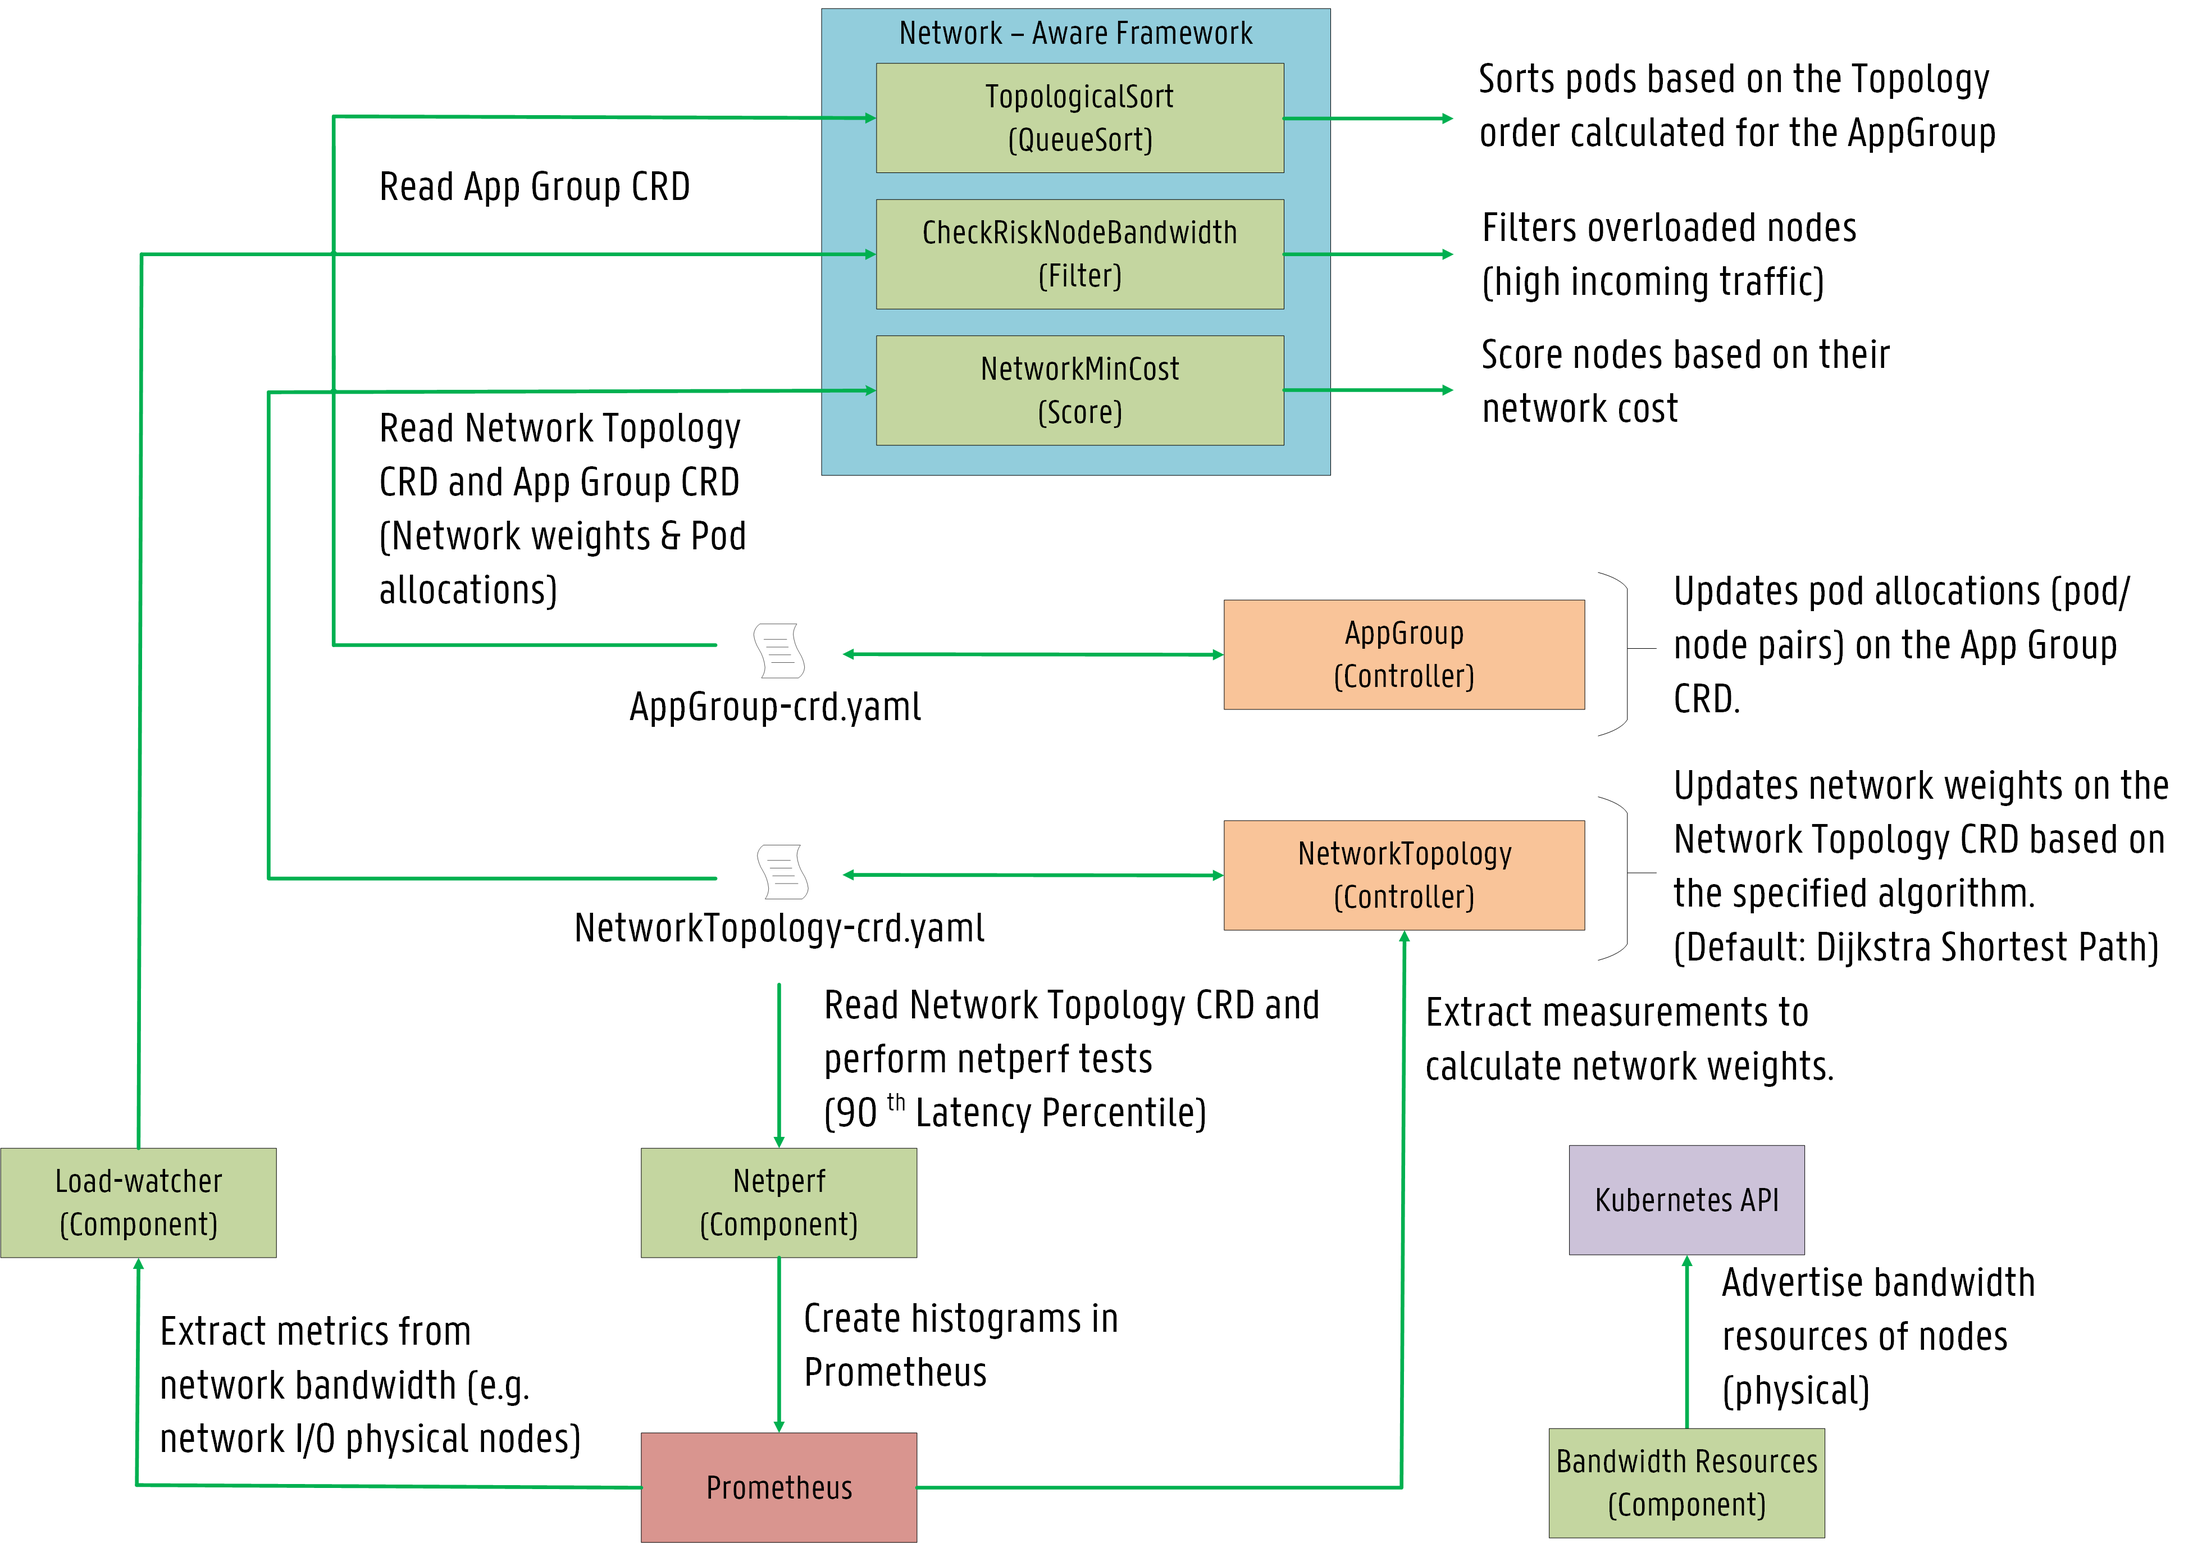
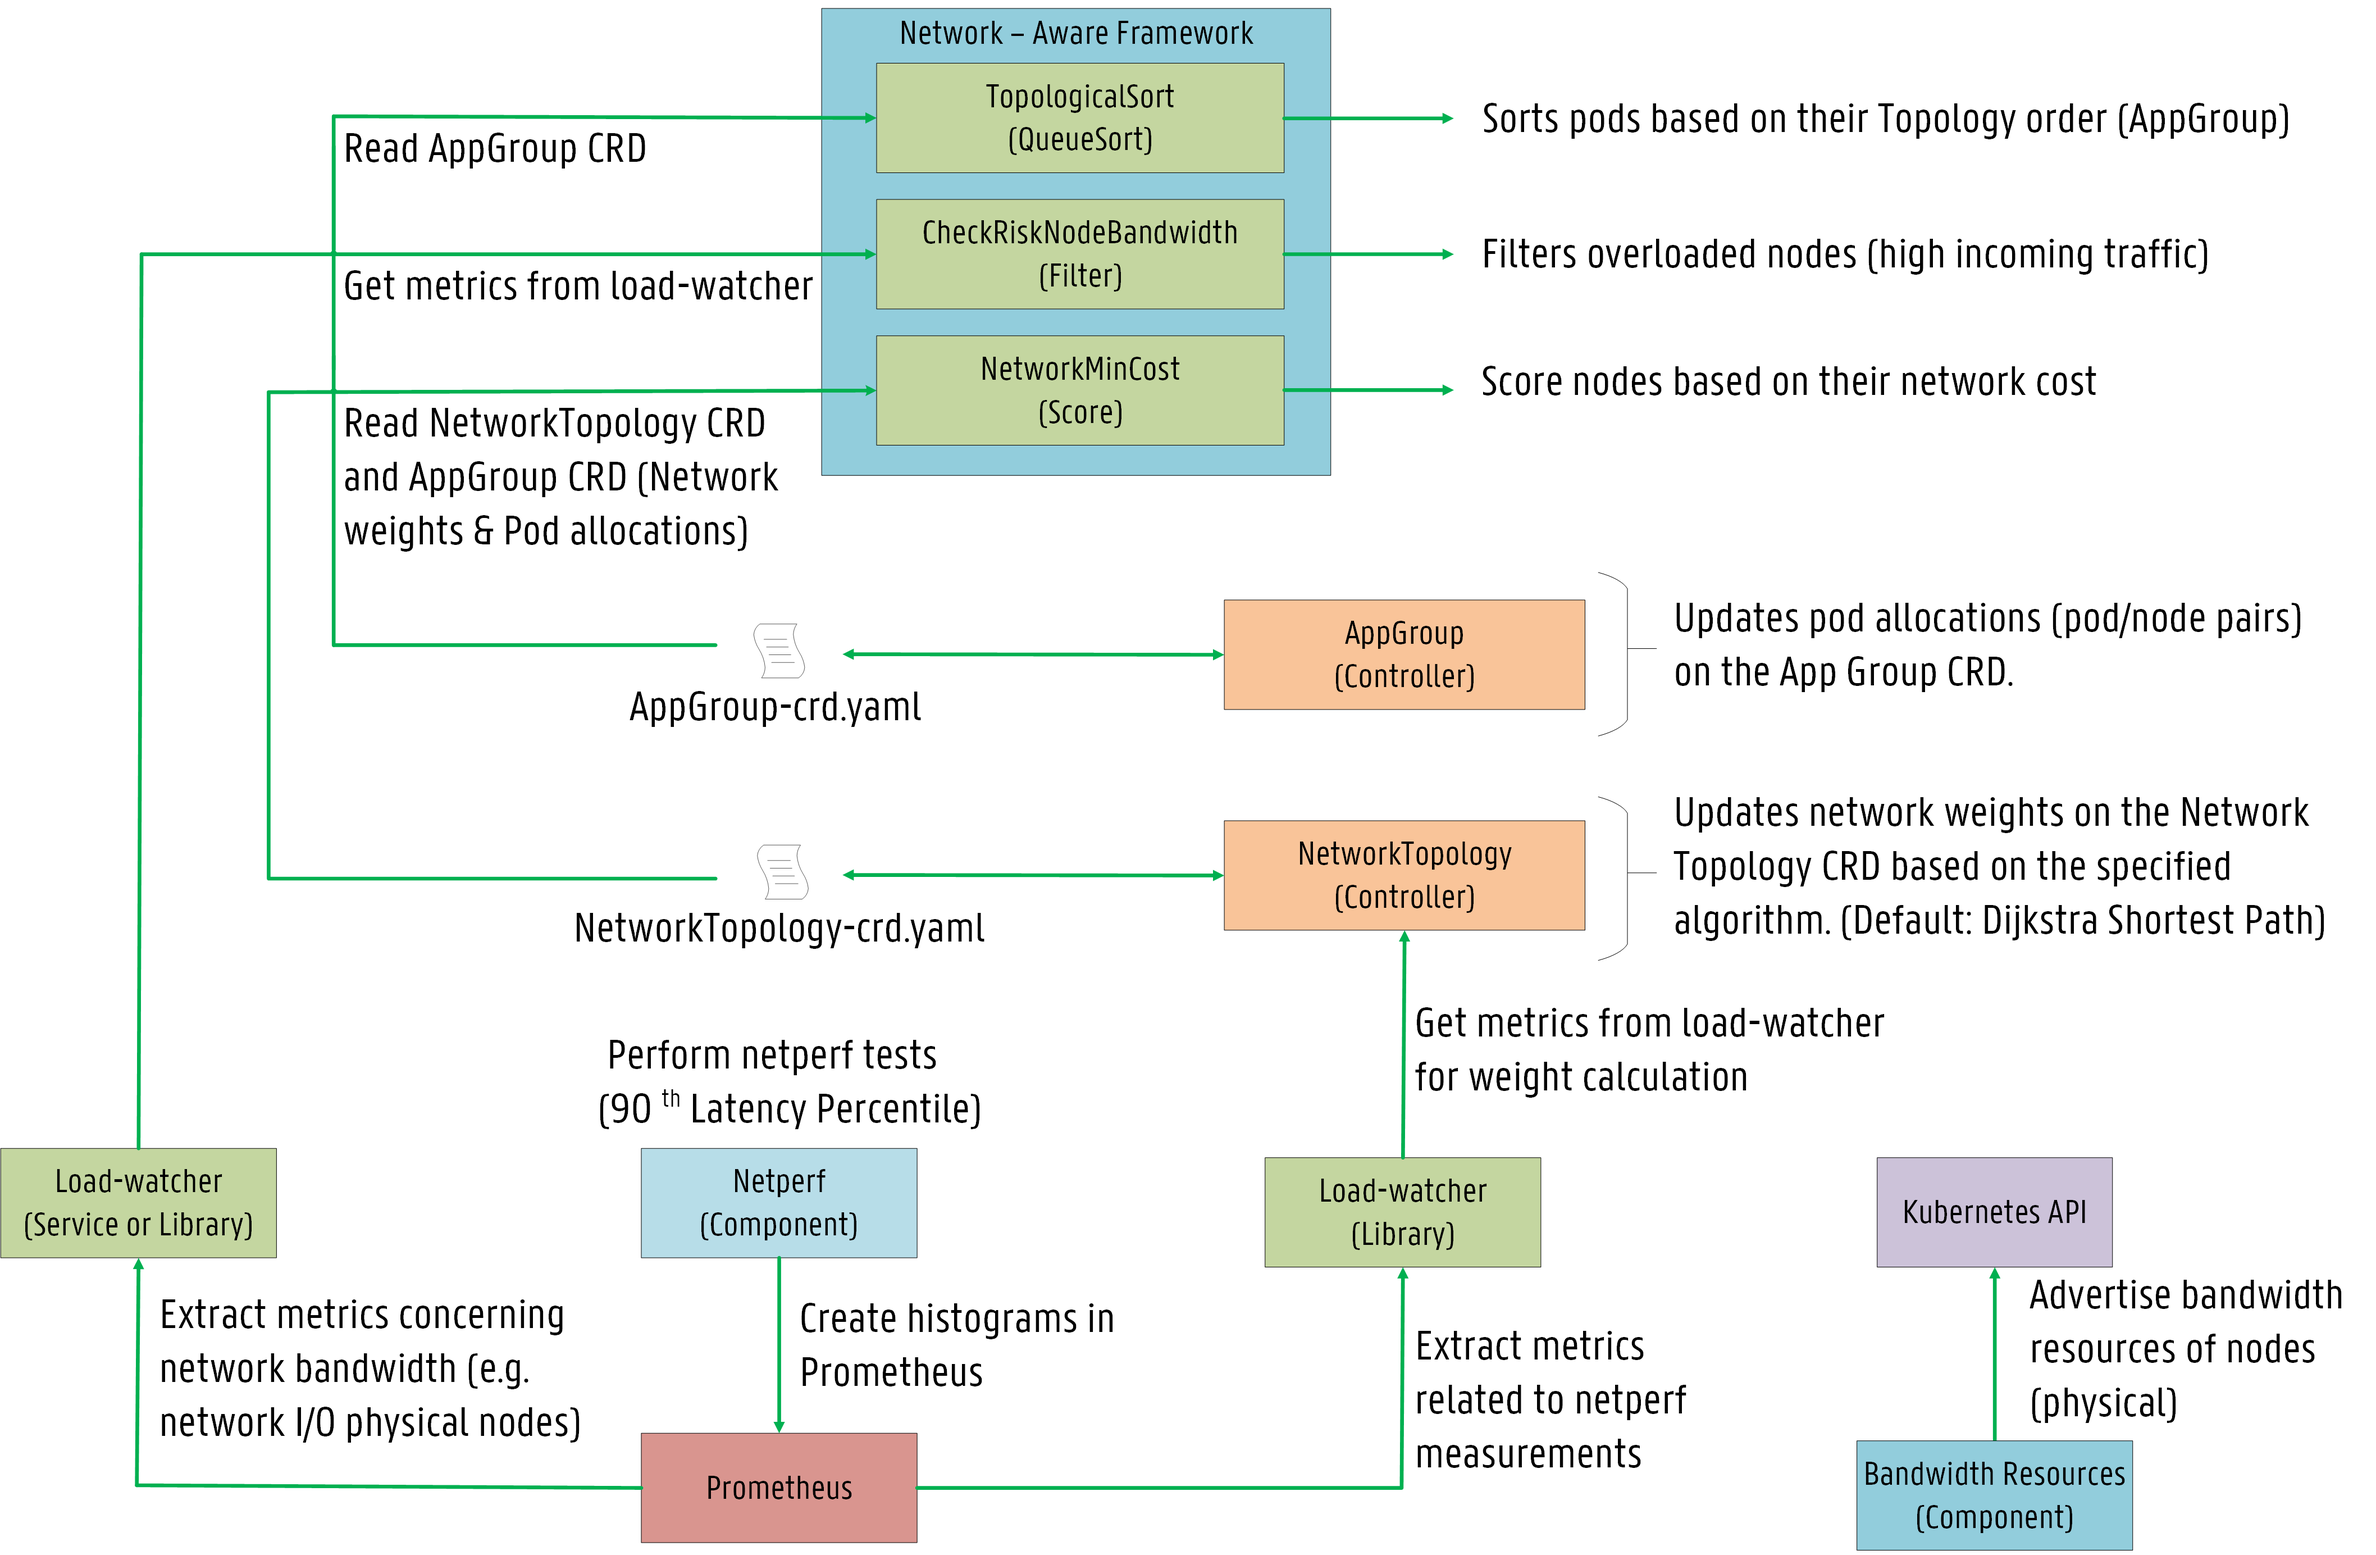
networkTopology modifications

Changed region(s): [[0.0, 0.4951, 0.9957, 1.0], [0.0622, 0.0, 0.9645, 0.557]]

diff --git a/kep/260-network-aware-scheduling/README.md b/kep/260-network-aware-scheduling/README.md
@@ -555,7 +555,9 @@ metadata:
   name: net-topology-test
   namespace: test-namespace
 spec:
-  prometheusAddress: http://prometheus-k8s.monitoring.svc.cluster.local:9090
+  metricProvider:
+    type: Prometheus
+    address: http://prometheus-k8s.monitoring.svc.cluster.local:9090
   topologyAlgorithm: Dijkstra
   freqUpdate: 5
   timeRangeInMinutes: 30 
@@ -566,25 +568,25 @@ A NetworkTopology controller updates the CRD regarding network weights calculate
 ```go
 // NetworkTopologyController is a controller that process Network Topology using provided Handler interface
 type NetworkTopologyController struct {
-	eventRecorder    record.EventRecorder
-	ntQueue          workqueue.RateLimitingInterface
-	ntLister         schedlister.NetworkTopologyLister
-	nodeLister       corelister.NodeLister
-	ntListerSynced   cache.InformerSynced
-	nodeListerSynced cache.InformerSynced
-	ntClient         schedclientset.Interface
-	prometheus       *util.PrometheusHandle                 // Prometheus query handler
-	lock             sync.RWMutex                           // lock for network graph and cost calculation
-	nodeCount        int64                                  // Number of nodes in the cluster.
-	graph            *util.Graph                            // Network Graph for cost calculation
+	eventRecorder        record.EventRecorder
+	ntQueue              workqueue.RateLimitingInterface
+	ntLister             schedlister.NetworkTopologyLister
+	nodeLister           corelister.NodeLister
+	ntListerSynced       cache.InformerSynced
+	nodeListerSynced     cache.InformerSynced
+	ntClient             schedclientset.Interface
+	loadWatcherCollector *util.NetworkTopologyCollector // Collector to get data from load watcher. Inspired by the Trimaran plugin.
+	lock                 sync.RWMutex                   // lock for network graph and cost calculation.
+	nodeCount            int64                          // Number of nodes in the cluster.
+	graph                *util.Graph                    // Network Graph for cost calculation.
 }
 ```
 
 ```go
 // NetworkTopologySpec represents the template of a NetworkTopology.
 type NetworkTopologySpec struct {
-	// The Prometheus address
-	PrometheusAddress string `json:"prometheusAddress,omitempty"`
+	// Metric Provider to use when using load watcher as a library
+	MetricProvider configTypes.MetricProviderSpec `json:"metricProvider,omitempty"`
 
 	// The algorithm for weight calculation
 	TopologyAlgorithm string `json:"topologyAlgorithm,omitempty"`
@@ -881,7 +883,9 @@ metadata:
   name: net-topology-test
   namespace: test-namespace
 spec:
-  prometheusAddress: http://prometheus-k8s.monitoring.svc.cluster.local:9090
+  metricProvider:
+    type: Prometheus
+    address: http://prometheus-k8s.monitoring.svc.cluster.local:9090
   topologyAlgorithm: Dijkstra
   freqUpdate: 5
   timeRangeInMinutes: 30 
